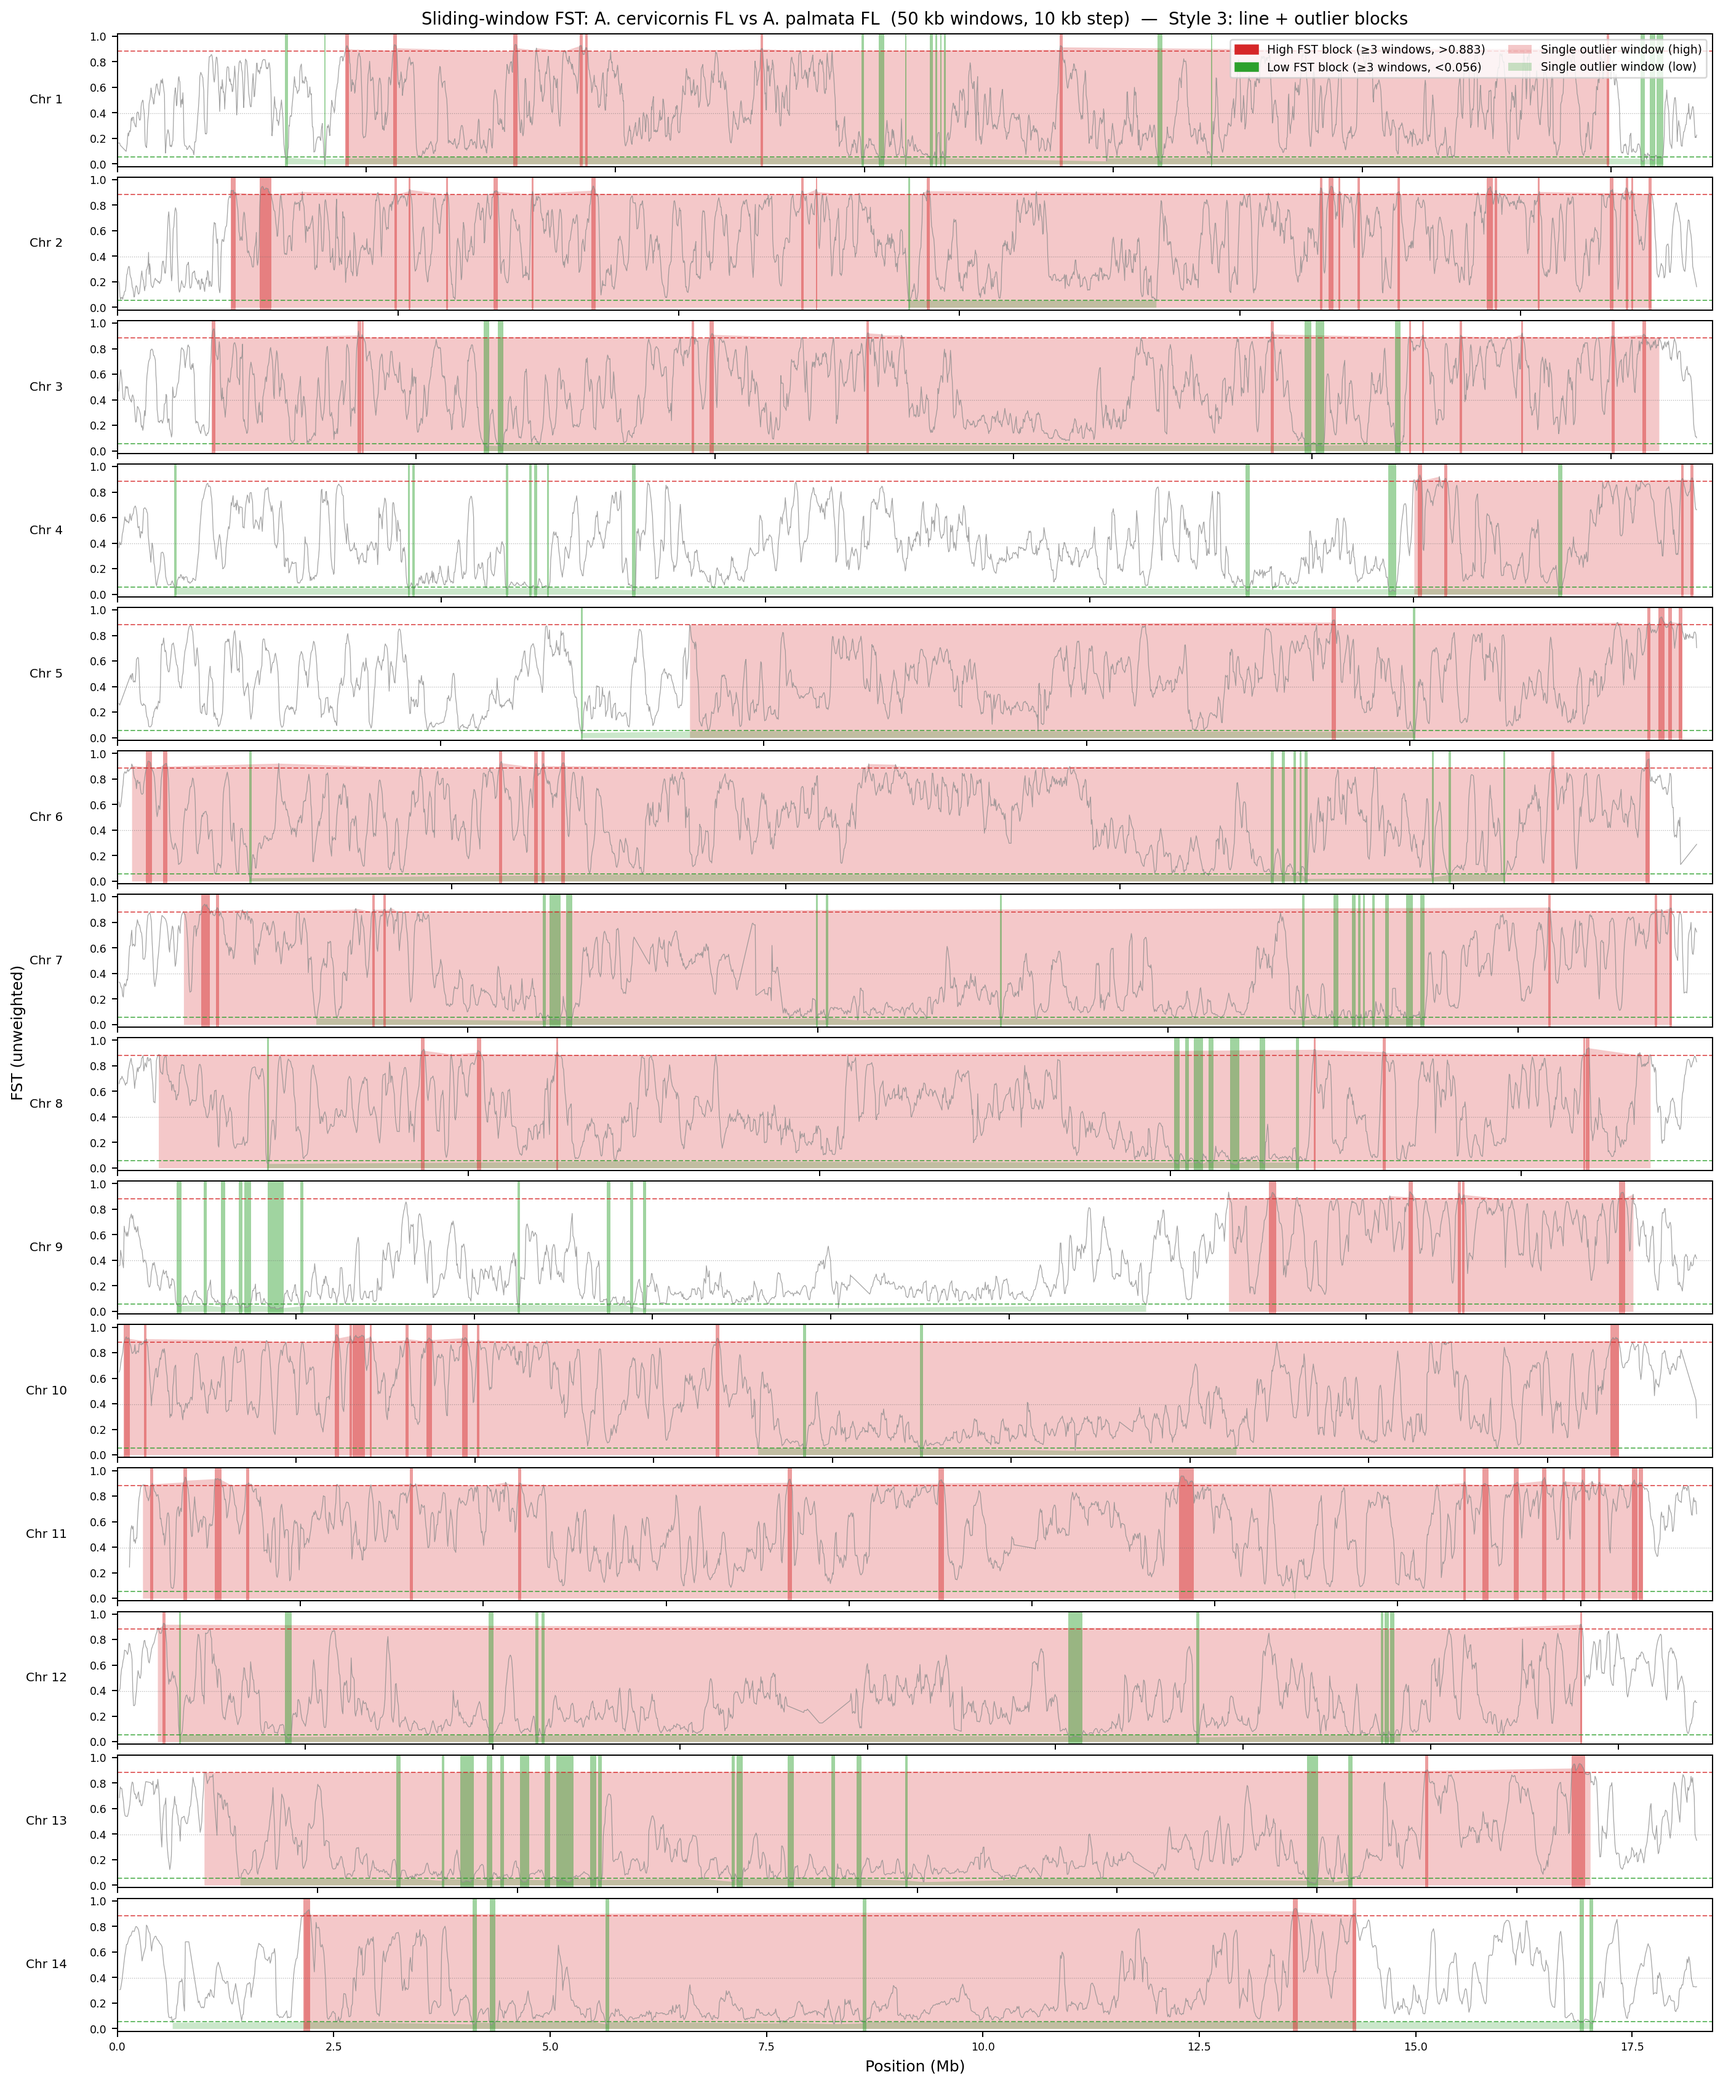
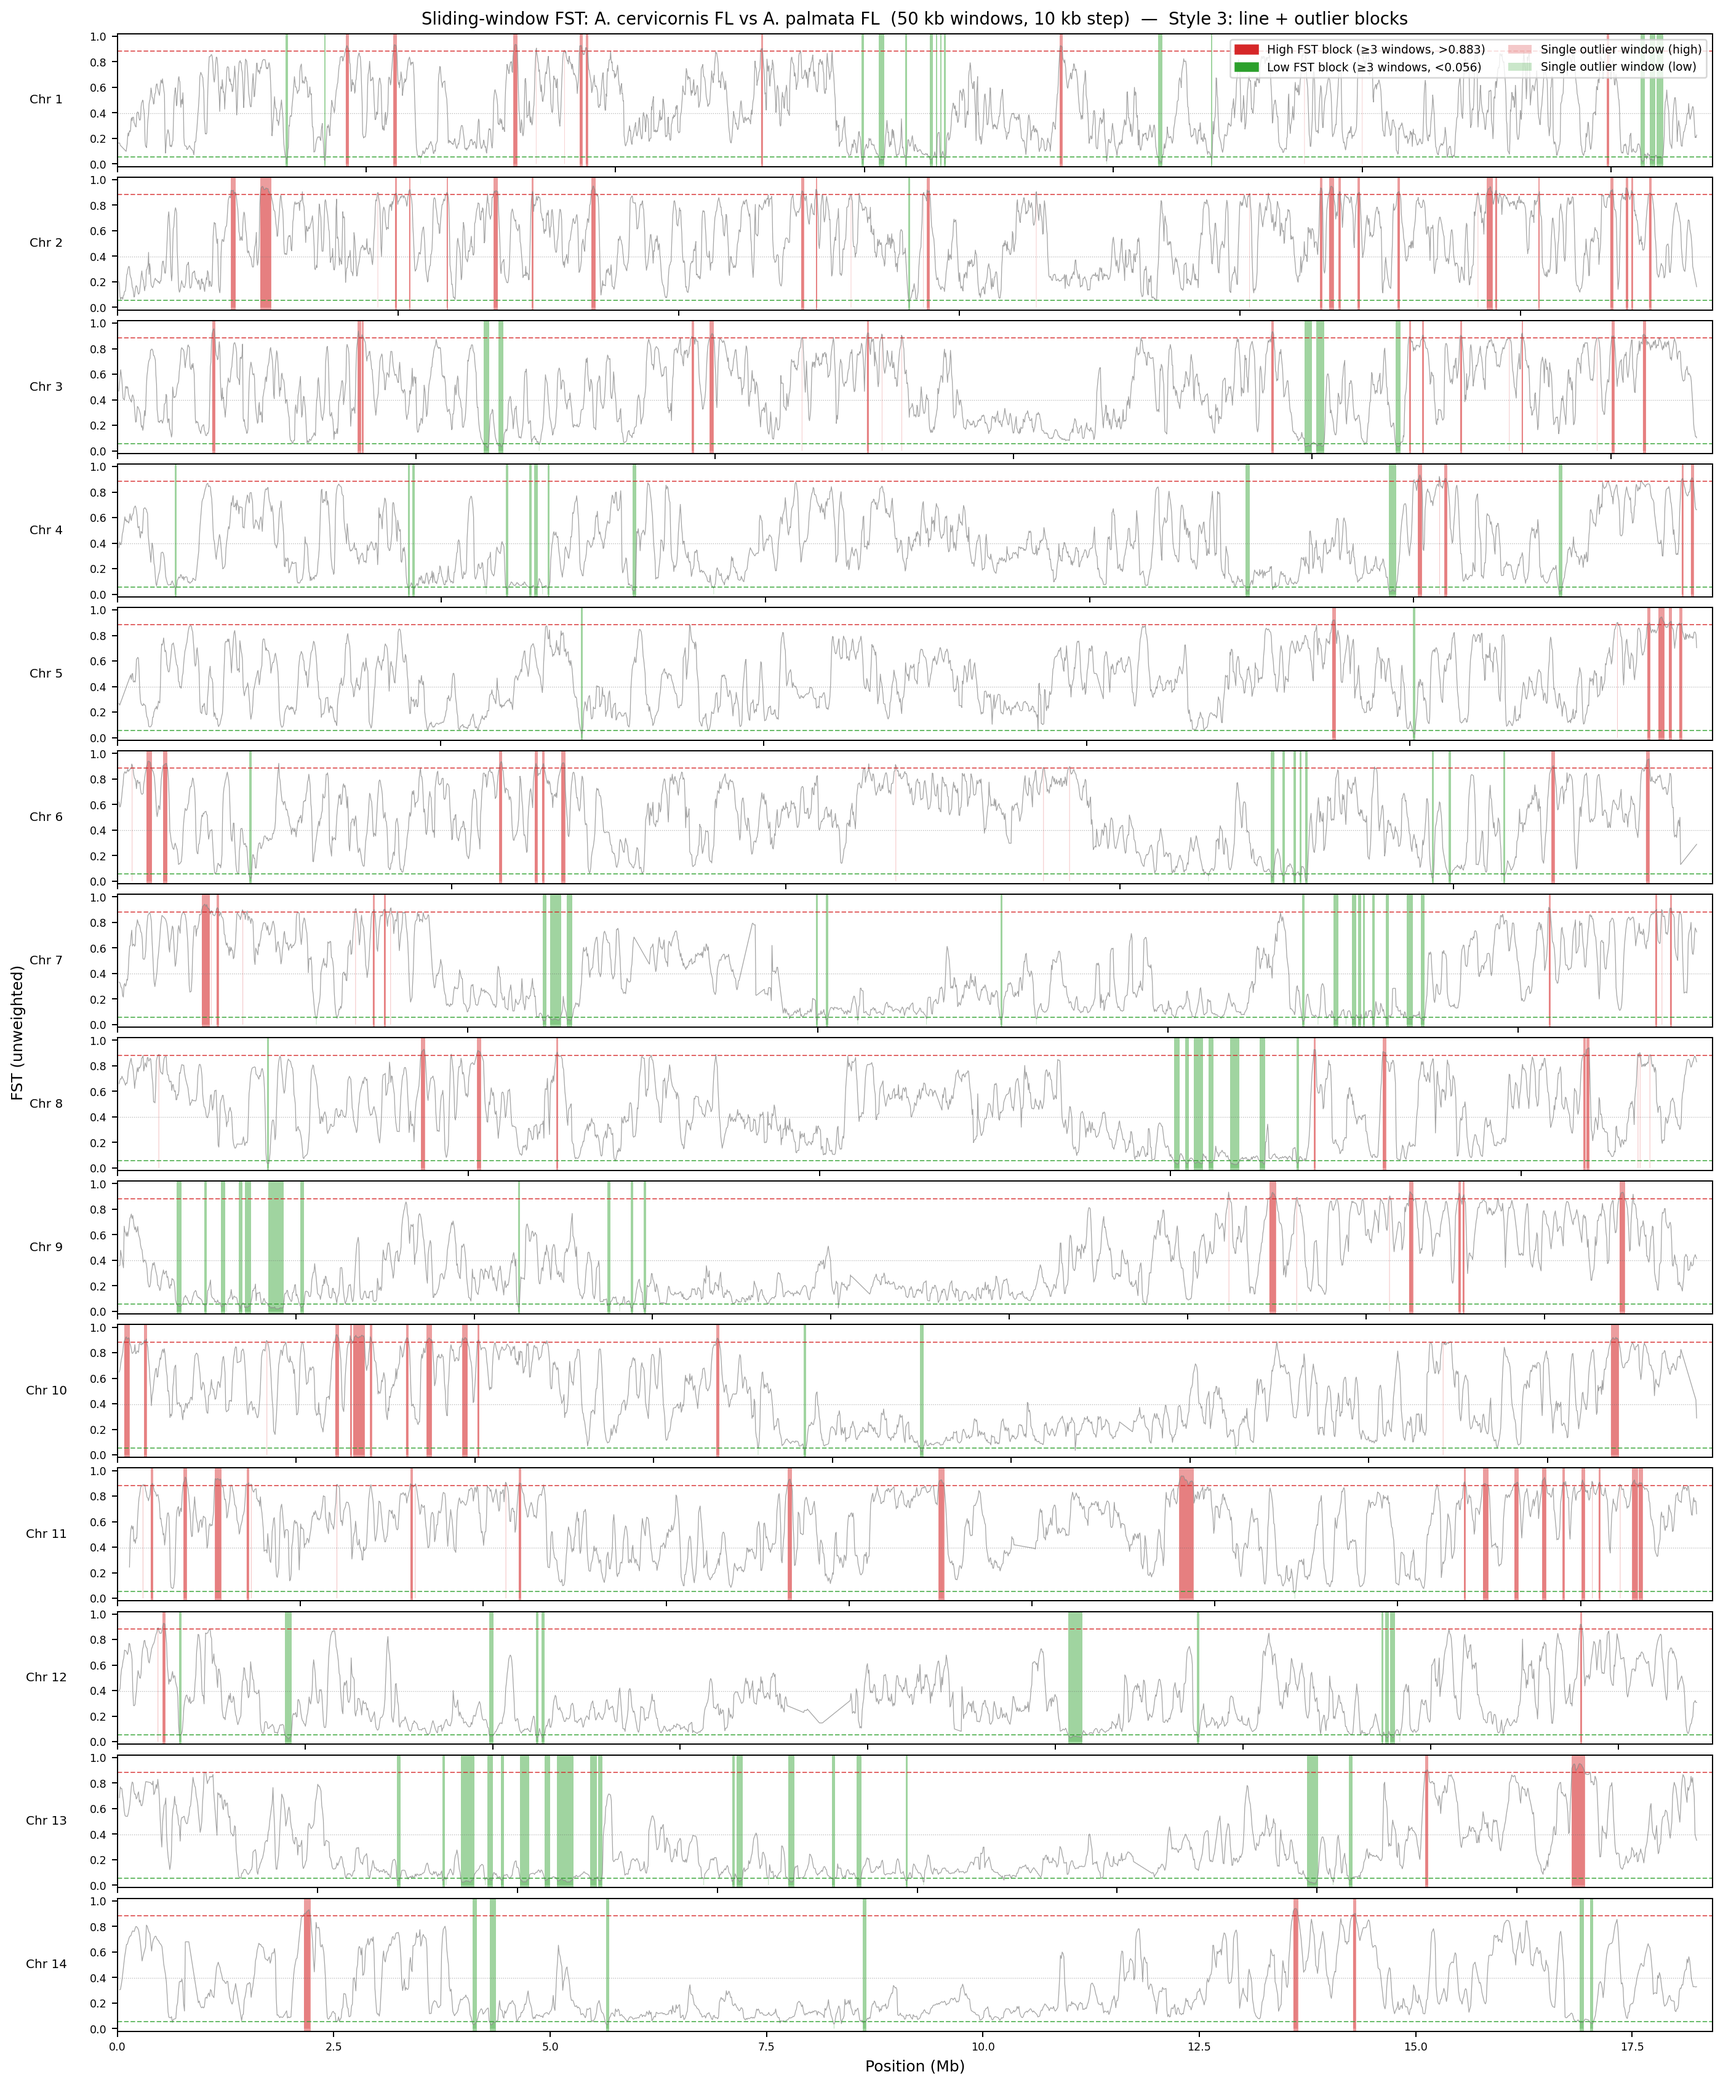
Fix FST stacked plots: use where= to prevent fill spanning gaps between outlier windows

diff --git a/workflow/scripts/plot_fst_windows.py b/workflow/scripts/plot_fst_windows.py
@@ -93,18 +93,18 @@ def get_outlier_spans(sub, pos_col, otype):
     pos = sub.loc[mask, pos_col].values
     if len(pos) == 0:
         return []
-    # step size
+    # step size — use small pad (10% of step) so adjacent high/low blocks don't overlap
     step = np.median(np.diff(sub[pos_col].values)) if len(sub) > 1 else 10000
-    half = step / 2
+    pad  = step * 0.1
     spans = []
     start = pos[0]
     prev  = pos[0]
     for p in pos[1:]:
         if p - prev > step * 1.5:
-            spans.append((start - half, prev - start + step))
+            spans.append((start - pad, prev - start + step * 0.8))
             start = p
         prev = p
-    spans.append((start - half, prev - start + step))
+    spans.append((start - pad, prev - start + step * 0.8))
     return spans
 
 
@@ -204,9 +204,10 @@ def plot_stacked_fst(df, out, high_thresh, low_thresh):
         mask_high = sub["outlier"] == "high"
         mask_low  = sub["outlier"] == "low"
 
-        ax.fill_between(pos_mb[mask_neu],  fst[mask_neu],  color=COL_NEU,  alpha=0.6, lw=0)
-        ax.fill_between(pos_mb[mask_high], fst[mask_high], color=COL_HIGH, alpha=0.85, lw=0)
-        ax.fill_between(pos_mb[mask_low],  fst[mask_low],  color=COL_LOW,  alpha=0.85, lw=0)
+        # Use where= to avoid fill spanning gaps between non-contiguous outlier windows
+        ax.fill_between(pos_mb, fst, where=mask_neu,  color=COL_NEU,  alpha=0.6, lw=0)
+        ax.fill_between(pos_mb, fst, where=mask_high, color=COL_HIGH, alpha=0.85, lw=0)
+        ax.fill_between(pos_mb, fst, where=mask_low,  color=COL_LOW,  alpha=0.85, lw=0)
         ax.plot(pos_mb, fst, color="white", lw=0.2, alpha=0.4)
 
         ax.axhline(high_thresh,        color=COL_HIGH, lw=0.7, ls="--", alpha=0.6)
@@ -265,9 +266,9 @@ def plot_stacked_zscore(df, out):
         mask_high = sub["outlier"] == "high"
         mask_low  = sub["outlier"] == "low"
 
-        ax.fill_between(pos_mb[mask_neu],  zsc[mask_neu],  color=COL_NEU,  alpha=0.55, lw=0)
-        ax.fill_between(pos_mb[mask_high], zsc[mask_high], color=COL_HIGH, alpha=0.85, lw=0)
-        ax.fill_between(pos_mb[mask_low],  zsc[mask_low],  color=COL_LOW,  alpha=0.85, lw=0)
+        ax.fill_between(pos_mb, zsc, where=mask_neu,  color=COL_NEU,  alpha=0.55, lw=0)
+        ax.fill_between(pos_mb, zsc, where=mask_high, color=COL_HIGH, alpha=0.85, lw=0)
+        ax.fill_between(pos_mb, zsc, where=mask_low,  color=COL_LOW,  alpha=0.85, lw=0)
         ax.plot(pos_mb, zsc, color="white", lw=0.2, alpha=0.4)
 
         ax.axhline(0,       color="0.5",    lw=0.6, ls=":",  alpha=0.6)
@@ -324,10 +325,8 @@ def plot_stacked_regions(df, out, high_thresh, low_thresh):
         # Shade all outlier windows (single + block) lightly
         mask_high = sub["outlier"] == "high"
         mask_low  = sub["outlier"] == "low"
-        ax.fill_between(pos_mb[mask_high], fst[mask_high],
-                        color=COL_HIGH, alpha=0.25, lw=0)
-        ax.fill_between(pos_mb[mask_low],  fst[mask_low],
-                        color=COL_LOW,  alpha=0.25, lw=0)
+        ax.fill_between(pos_mb, fst, where=mask_high, color=COL_HIGH, alpha=0.25, lw=0)
+        ax.fill_between(pos_mb, fst, where=mask_low,  color=COL_LOW,  alpha=0.25, lw=0)
 
         # Dark spans for blocks (≥MIN_BLOCK consecutive)
         for otype, col in [("high", COL_HIGH), ("low", COL_LOW)]:
